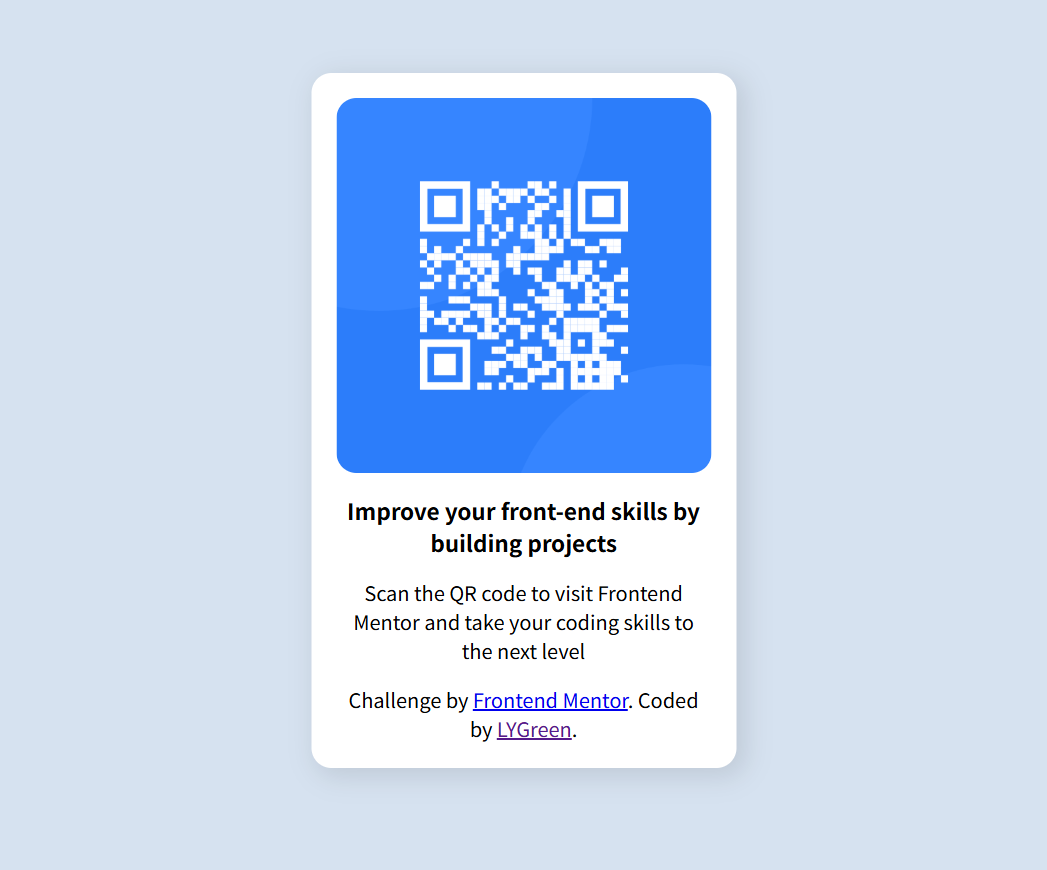
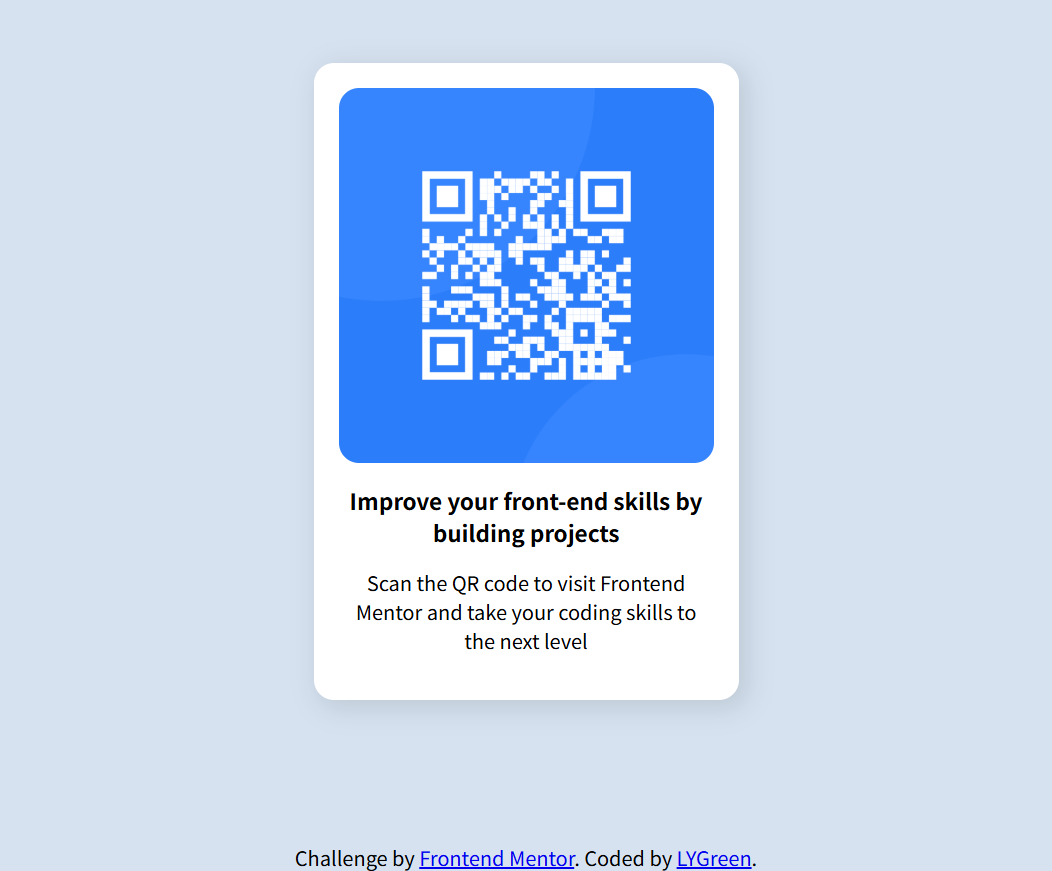
improve my solution

diff --git a/index.html b/index.html
@@ -11,14 +11,24 @@
   <!-- Feel free to remove these styles or customise in your own stylesheet 👍 -->
    <!-- #D5E1EF-->
   <style>
-    body {
+    html, body {
+      height: 100%;
       background-color: hsl(212, 45%, 89%);
+      margin: 0;
+
+      display: flex;
+      flex-direction: column;
+      align-items: center;
     }
 
     @media (max-width: 768px) {
-      body {
+      html, body {
         height: calc(100vh + 100px);
       }
+    }
+
+    main {
+      flex: 1;
     }
 
     img {
@@ -37,13 +47,12 @@
 
     .attribution {
       text-align: center;
+      bottom: 0px;
     }
 
-    #container {
-      position: absolute;
+    #card {
+      margin-top: 50px; 
       left: 50%;
-      transform: translateX(-50%);
-      margin-top: 50px;
     }
 
     #bg {
@@ -58,25 +67,24 @@
   </style>
 </head>
 <body>
-  <div id="container">
-    <div id="bg">
-      <main>
-            <img src="./images/image-qr-code.png" alt="QR code to access the website">
+  <main>
+    <div id="card">
+      <div id="bg">
+              <img src="./images/image-qr-code.png" alt="QR code to access the website">
 
-            <h1>Improve your front-end skills by building projects</h1>
+              <h1>Improve your front-end skills by building projects</h1>
 
-            <p>Scan the QR code to visit Frontend Mentor and take your coding skills to the next level</p>
-      </main>
-
-      <footer>
-            <div class="attribution">
-              Challenge by <a href="https://www.frontendmentor.io?ref=challenge" target="_blank">Frontend Mentor</a>. 
-              Coded by <a href="https://github.com/LYGreen">LYGreen</a>.
-            </div>
-      </footer>
-      
+              <p>Scan the QR code to visit Frontend Mentor and take your coding skills to the next level</p>
+      </div>
     </div>
-  </div>
-  
+  </main>
+
+  <footer>
+      <div class="attribution">
+        Challenge by <a href="https://www.frontendmentor.io?ref=challenge" target="_blank">Frontend Mentor</a>. 
+        Coded by <a href="https://github.com/LYGreen">LYGreen</a>.
+      </div>
+  </footer>
+
 </body>
 </html>
